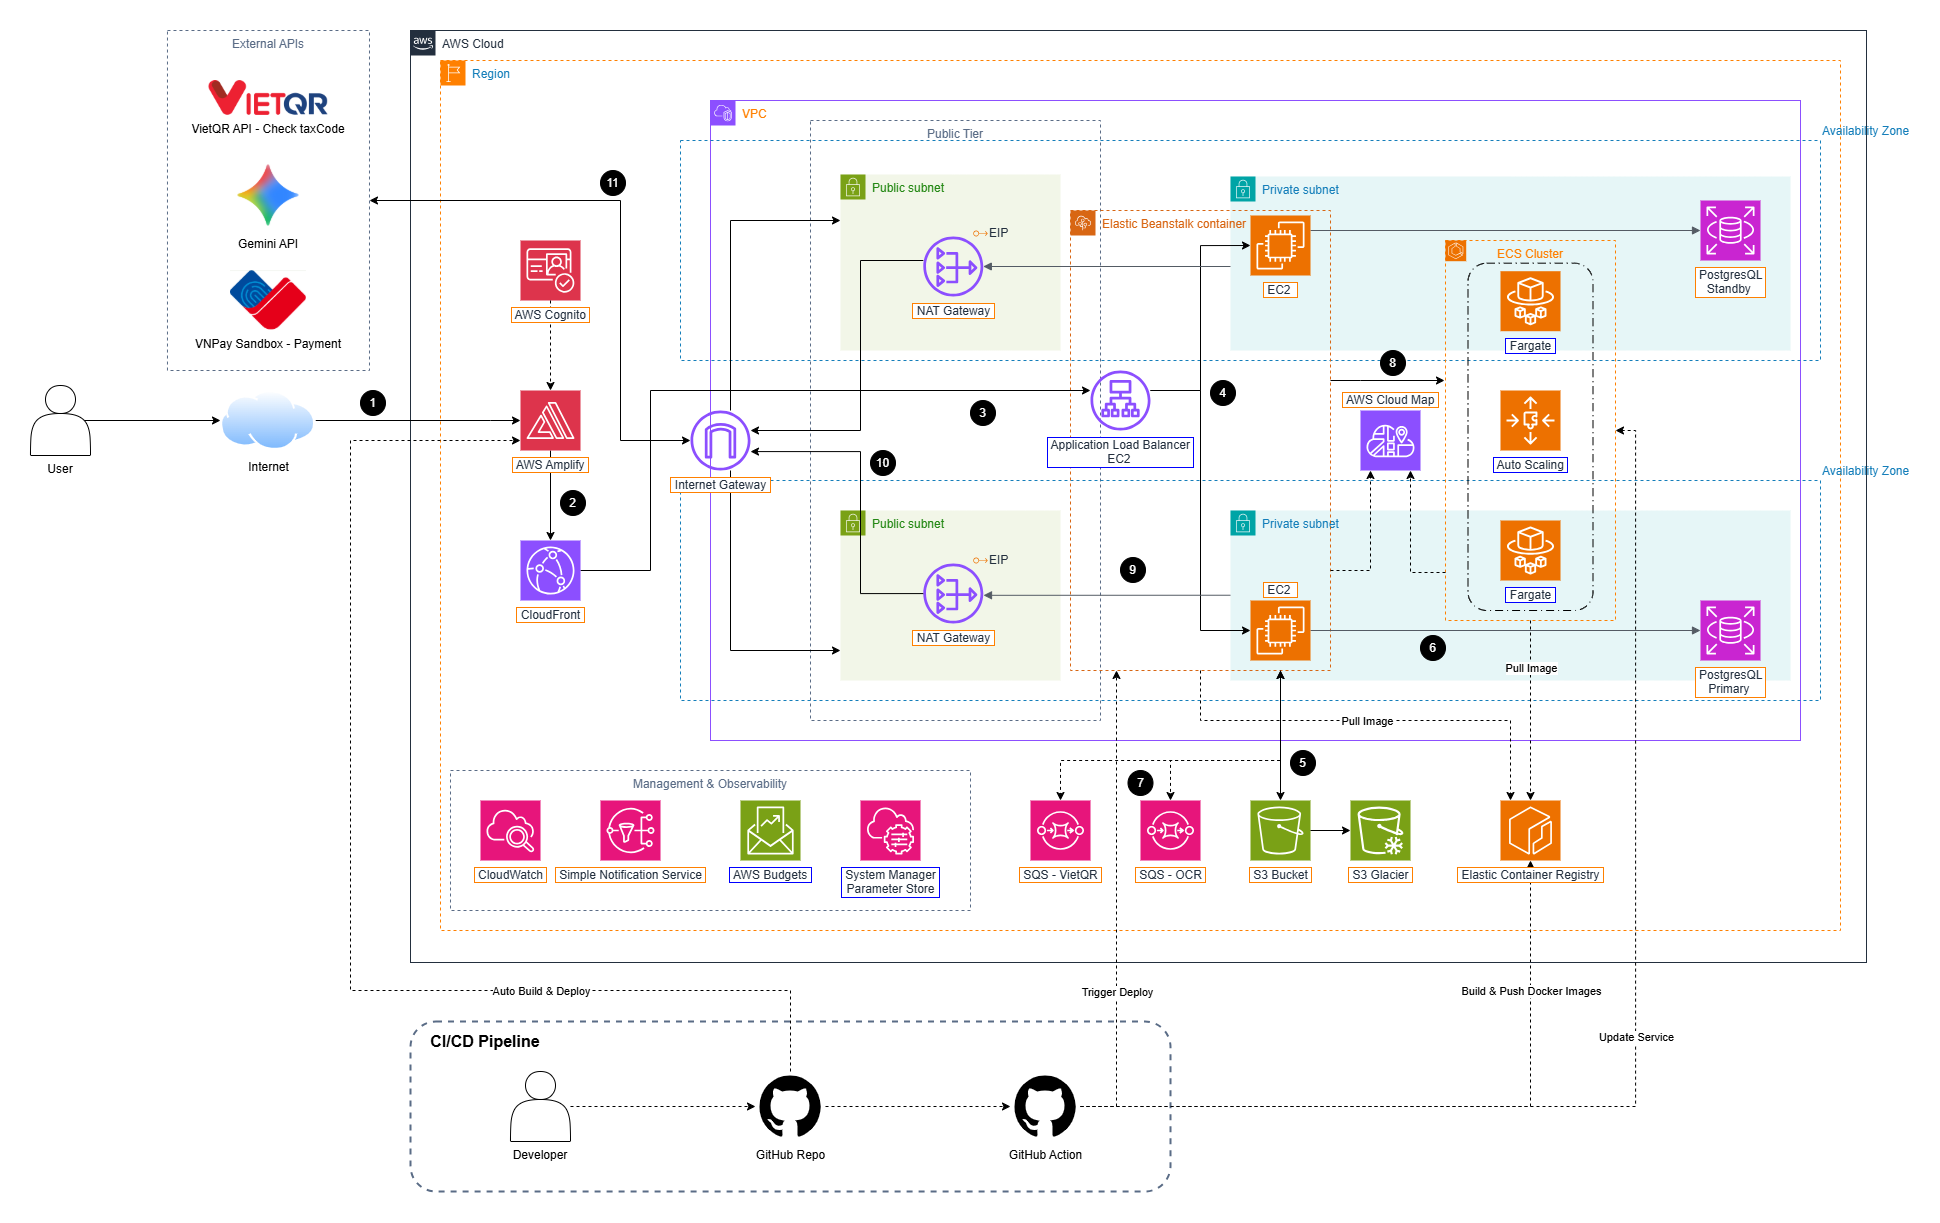
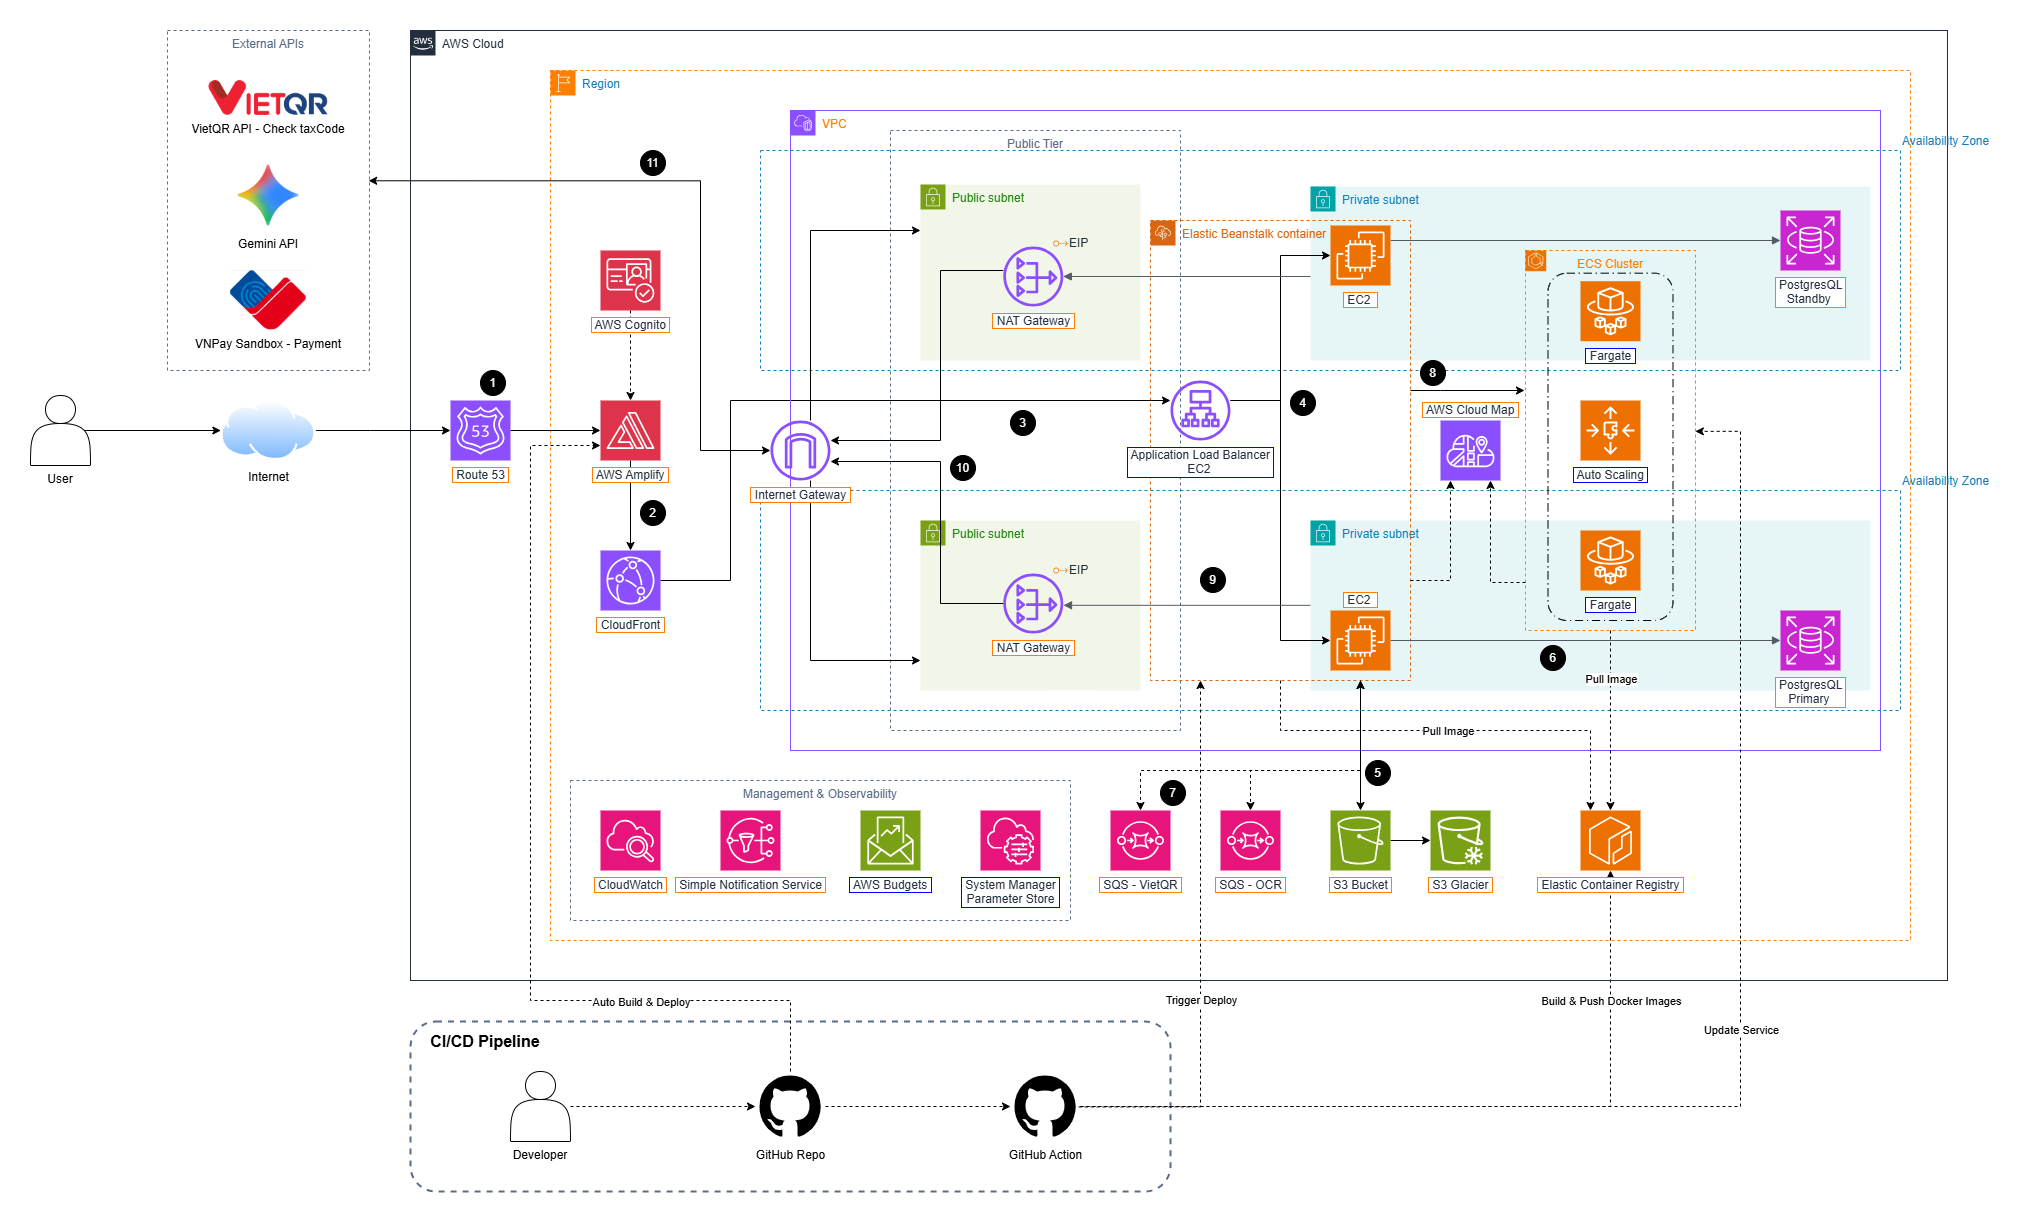
fix: Fix Proposal and Workshop page

diff --git a/content/4-Workshop/4.1-Architecture/_index.vi.md b/content/4-Workshop/4.1-Architecture/_index.vi.md
@@ -40,17 +40,18 @@ pre: " <b> 4.1. </b> "
 | 15   | Triển khai Backend (Elastic Beanstalk)   | 20' |
 | 16   | Cấu hình HTTPS (CloudFront)              | 15' |
 | 17   | Triển khai Frontend (Amplify)            | 10' |
-| 18   | CI/CD (GitHub Actions)                   | 10' |
-| 19   | CloudWatch Monitoring                    | 15' |
-| 20   | Kiểm tra End-to-End                      | 15' |
+| 18   | Cấu hình Tên miền tùy chỉnh (Route 53)   | 10' |
+| 19   | CI/CD (GitHub Actions)                   | 10' |
+| 20   | CloudWatch Monitoring                    | 15' |
+| 21   | Kiểm tra End-to-End                      | 15' |
 
 ## Chi Phí Ước Tính (Monthly)
 
-| Dịch vụ                         | Cấu hình dự kiến     | Chi phí (USD/tháng) |
-| ------------------------------- | -------------------- | ------------------- |
-| EC2 (EBS) + ALB                 | 2x t3.micro          | ~$42                |
-| RDS PostgreSQL                  | db.t3.micro Multi-AZ | ~$40                |
-| ECS Fargate                     | 2 tasks (0.25 vCPU)  | ~$7                 |
-| NAT Gateway                     | Regional             | ~$86                |
-| CloudFront, S3, SQS & Cloud Map |                      | ~$5                 |
-| **TỔNG CỘNG**                   |                      | **~$180**           |
+| Dịch vụ        | Cấu hình dự kiến     | Chi phí (USD/tháng) |
+| -------------- | -------------------- | ------------------- |
+| EC2 (EBS)      | 2x t3.micro          | ~$15                |
+| RDS PostgreSQL | db.t3.micro Multi-AZ | ~$28                |
+| ECS Fargate    | 2 tasks (0.25 vCPU)  | ~$20                |
+| NAT Gateway    | 1 zone + data        | ~$35                |
+| ALB (Backend)  | 1 ALB                | ~$18                |
+| **TỔNG CỘNG**  |                      | **~$116**           |

diff --git a/content/4-Workshop/4.6-Frontend-Proxy/_index.vi.md b/content/4-Workshop/4.6-Frontend-Proxy/_index.vi.md
@@ -1,12 +1,12 @@
 ---
-title: "Frontend & CloudFront Proxy"
+title: "Frontend, Proxy & Route 53"
 date: 2024-01-01
 weight: 6
 chapter: false
 pre: " <b> 4.6. </b> "
 ---
 
-Phần này bao gồm Bước 16–17: cấu hình CloudFront làm HTTPS proxy cho Backend API, và triển khai ReactJS frontend lên AWS Amplify.
+Phần này bao gồm Bước 16–18: cấu hình CloudFront làm HTTPS proxy cho Backend API, triển khai ReactJS frontend lên AWS Amplify, và cấu hình tên miền tùy chỉnh với Route 53.
 
 ---
 
@@ -81,3 +81,18 @@ Amplify sẽ tự nhận diện Vite. Kiểm tra App settings → Build settings
 ![alt text](image-10.png)
 
 → Sau khi deploy, copy **Amplify URL** và cập nhật SSM parameter `ALLOWED_ORIGINS`.
+
+---
+
+## Bước 18: Cấu hình Tên miền tùy chỉnh (Route 53)
+
+Sau khi triển khai Frontend lên Amplify, bạn có thể thiết lập thêm một tên miền tùy chỉnh (custom domain).
+
+1. **Console**: Route 53 → **Hosted zones**
+2. Đảm bảo bạn đã đăng ký một domain từ trước hoặc đã tạo một Hosted Zone.
+3. **Console**: AWS Amplify → App settings → **Domain management** → **Add domain**
+4. Nhập tên miền tùy chỉnh của bạn và nhấn **Configure domain**.
+5. Amplify sẽ tự động tạo chứng chỉ SSL (SSL certificate) và cung cấp các bản ghi CNAME để xác thực.
+6. Sao chép và thêm các bản ghi CNAME này vào Hosted Zone trên Route 53 của bạn.
+7. Đợi DNS cập nhật và xác minh SSL (có thể mất vài giờ, thông thường ~15 phút).
+8. Sau khi xác minh thành công, giao diện web sẽ có thể truy cập an toàn qua tên miền tùy chỉnh của bạn.

diff --git a/content/4-Workshop/4.1-Architecture/_index.md b/content/4-Workshop/4.1-Architecture/_index.md
@@ -40,17 +40,18 @@ pre: " <b> 4.1. </b> "
 | 15   | Deploy Backend (Elastic Beanstalk)   |
 | 16   | Configure HTTPS (CloudFront)         |
 | 17   | Deploy Frontend (Amplify)            |
-| 18   | CI/CD (GitHub Actions)               |
-| 19   | CloudWatch Monitoring                |
-| 20   | End-to-End Verification              |
+| 18   | Configure Custom Domain (Route 53)   |
+| 19   | CI/CD (GitHub Actions)               |
+| 20   | CloudWatch Monitoring                |
+| 21   | End-to-End Verification              |
 
 ## Estimated Monthly Costs
 
-| Service                         | Configuration        | Cost (USD/month) |
-| ------------------------------- | -------------------- | ---------------- |
-| EC2 (EBS) + ALB                 | 2x t3.micro          | ~$42             |
-| RDS PostgreSQL                  | db.t3.micro Multi-AZ | ~$40             |
-| ECS Fargate                     | 2 tasks (0.25 vCPU)  | ~$7              |
-| NAT Gateway                     | Regional             | ~$86             |
-| CloudFront, S3, SQS & Cloud Map |                      | ~$5              |
-| **TOTAL**                       |                      | **~$180**        |
+| Service        | Configuration        | Cost (USD/month) |
+| -------------- | -------------------- | ---------------- |
+| EC2 (EBS)      | 2x t3.micro          | ~$15             |
+| RDS PostgreSQL | db.t3.micro Multi-AZ | ~$28             |
+| ECS Fargate    | 2 tasks (0.25 vCPU)  | ~$20             |
+| NAT Gateway    | 1 zone + data        | ~$35             |
+| ALB (Backend)  | 1 ALB                | ~$18             |
+| **TOTAL**      |                      | **~$116**        |

diff --git a/content/4-Workshop/_index.vi.md b/content/4-Workshop/_index.vi.md
@@ -18,6 +18,7 @@ Trong workshop này, bạn sẽ tự tay triển khai toàn bộ kiến trúc Sm
 
 Hệ thống được triển khai trên **2 Availability Zones** tại `ap-southeast-1` (Singapore) và bao gồm:
 - **Frontend**: React + Vite chạy trên AWS Amplify
+- **DNS & Tên miền tùy chỉnh**: Amazon Route 53
 - **CDN / HTTPS Proxy**: CloudFront đặt trước Backend ALB
 - **Backend API**: .NET 9 trên Elastic Beanstalk (EC2 private)
 - **OCR AI Service**: Python (FastAPI + LayoutLMv3/Gemini) trên ECS Fargate
@@ -29,12 +30,12 @@ Hệ thống được triển khai trên **2 Availability Zones** tại `ap-sout
 
 #### Nội dung
 
-1. [Tổng quan kiến trúc](4.1-Architecture/)
-2. [Chuẩn bị](4.2-Prerequisite/)
-3. [Mạng & Bảo mật](4.3-Networking-Security/)
-4. [Lưu trữ, Xác thực & Cơ sở dữ liệu](4.4-Storage-Database/)
-4. [Container Registry & Compute](4.5-Compute-Backend/)
-6. [Frontend & CloudFront Proxy](4.6-Frontend-Proxy/)
-7. [CI/CD & Giám sát](4.7-CICD-Monitoring/)
-8. [Kiểm tra Tổng thể](4.8-Testing/)
-9. [Dọn dẹp Tài nguyên](4.9-Cleanup/)
+1. [Tổng quan kiến trúc](5.1-Architecture/)
+2. [Chuẩn bị](5.2-Prerequisite/)
+3. [Mạng & Bảo mật](5.3-Networking-Security/)
+4. [Lưu trữ, Xác thực & Cơ sở dữ liệu](5.4-Storage-Database/)
+5. [Container Registry & Compute](5.5-Compute-Backend/)
+6. [Frontend, Proxy & Route 53](5.6-Frontend-Proxy/)
+7. [CI/CD & Giám sát](5.7-CICD-Monitoring/)
+8. [Kiểm tra Tổng thể](5.8-Testing/)
+9. [Dọn dẹp Tài nguyên](5.9-Cleanup/)

diff --git a/content/4-Workshop/_index.md b/content/4-Workshop/_index.md
@@ -18,6 +18,7 @@ In this workshop, you will deploy the complete SmartInvoice Shield architecture 
 
 The system is deployed across **2 Availability Zones** in `ap-southeast-1` (Singapore) and consists of:
 - **Frontend**: React + Vite hosted on AWS Amplify
+- **DNS & Custom Domain**: Amazon Route 53
 - **CDN / HTTPS Proxy**: CloudFront in front of the Backend ALB
 - **Backend API**: .NET 9 running on Elastic Beanstalk (private EC2 instances)
 - **OCR AI Service**: Python (FastAPI + LayoutLMv3/Gemini) on ECS Fargate
@@ -29,12 +30,12 @@ The system is deployed across **2 Availability Zones** in `ap-southeast-1` (Sing
 
 #### Content
 
-1. [Architecture Overview](4.1-Architecture/)
-2. [Prerequisites](4.2-Prerequisite/)
-3. [Networking & Security](4.3-Networking-Security/)
-4. [Storage, Auth & Database](4.4-Storage-Database/)
-4. [Container Registry & Compute](4.5-Compute-Backend/)
-6. [Frontend & CloudFront Proxy](4.6-Frontend-Proxy/)
-7. [CI/CD & Monitoring](4.7-CICD-Monitoring/)
-8. [End-to-End Testing](4.8-Testing/)
-9. [Clean Up](4.9-Cleanup/)
+1. [Architecture Overview](5.1-Architecture/)
+2. [Prerequisites](5.2-Prerequisite/)
+3. [Networking & Security](5.3-Networking-Security/)
+4. [Storage, Auth & Database](5.4-Storage-Database/)
+5. [Container Registry & Compute](5.5-Compute-Backend/)
+6. [Frontend, Proxy & Route 53](5.6-Frontend-Proxy/)
+7. [CI/CD & Monitoring](5.7-CICD-Monitoring/)
+8. [End-to-End Testing](5.8-Testing/)
+9. [Clean Up](5.9-Cleanup/)

diff --git a/content/4-Workshop/4.6-Frontend-Proxy/_index.md b/content/4-Workshop/4.6-Frontend-Proxy/_index.md
@@ -1,12 +1,12 @@
 ---
-title: "Frontend & CloudFront Proxy"
+title: "Frontend, Proxy & Route 53"
 date: 2024-01-01
 weight: 6
 chapter: false
 pre: " <b> 4.6. </b> "
 ---
 
-This section covers Steps 16–17: configuring CloudFront as an HTTPS proxy for the Backend API, and deploying the React frontend on AWS Amplify.
+This section covers Steps 16–18: configuring CloudFront as an HTTPS proxy for the Backend API, deploying the React frontend on AWS Amplify, and mapping a custom domain with Route 53.
 
 ---
 
@@ -81,3 +81,18 @@ Amplify auto-detects Vite. Verify under App settings → Build settings:
 ![alt text](image-9.png)
 
 → After deployment, copy the **Amplify URL** and update SSM parameter `ALLOWED_ORIGINS`.
+
+---
+
+## Step 18: Configure Custom Domain (Route 53)
+
+After deploying the frontend on Amplify, you can optionally map a custom domain.
+
+1. **Console**: Route 53 → **Hosted zones**
+2. Ensure you have a registered domain or create a new Hosted Zone.
+3. **Console**: AWS Amplify → App settings → **Domain management** → **Add domain**
+4. Enter your custom domain and click **Configure domain**.
+5. Amplify will automatically generate SSL certificates and propose CNAME validation records.
+6. Copy these CNAME records to your Route 53 Hosted Zone.
+7. Wait for DNS propagation and SSL verification (can take up to a few hours, usually ~15 mins).
+8. Once verified, your web interface will be accessible securely at your custom domain.

diff --git a/content/4-Workshop/4.9-Cleanup/_index.md b/content/4-Workshop/4.9-Cleanup/_index.md
@@ -13,6 +13,19 @@ After finishing the workshop, delete all created resources to avoid unnecessary 
 
 ---
 
+## Estimated Cost if NOT Cleaned Up
+
+| Service | Approx. Monthly Cost |
+|---|---|
+| NAT Gateway | ~$35 |
+| RDS Multi-AZ | ~$28 |
+| ECS Fargate (2 tasks) | ~$20 |
+| ALB | ~$18 |
+| EC2 (2x t3.micro) | ~$15 |
+| **Total** | **~$116/month** |
+
+---
+
 ## Cleanup Order
 
 ### 1. AWS Amplify
